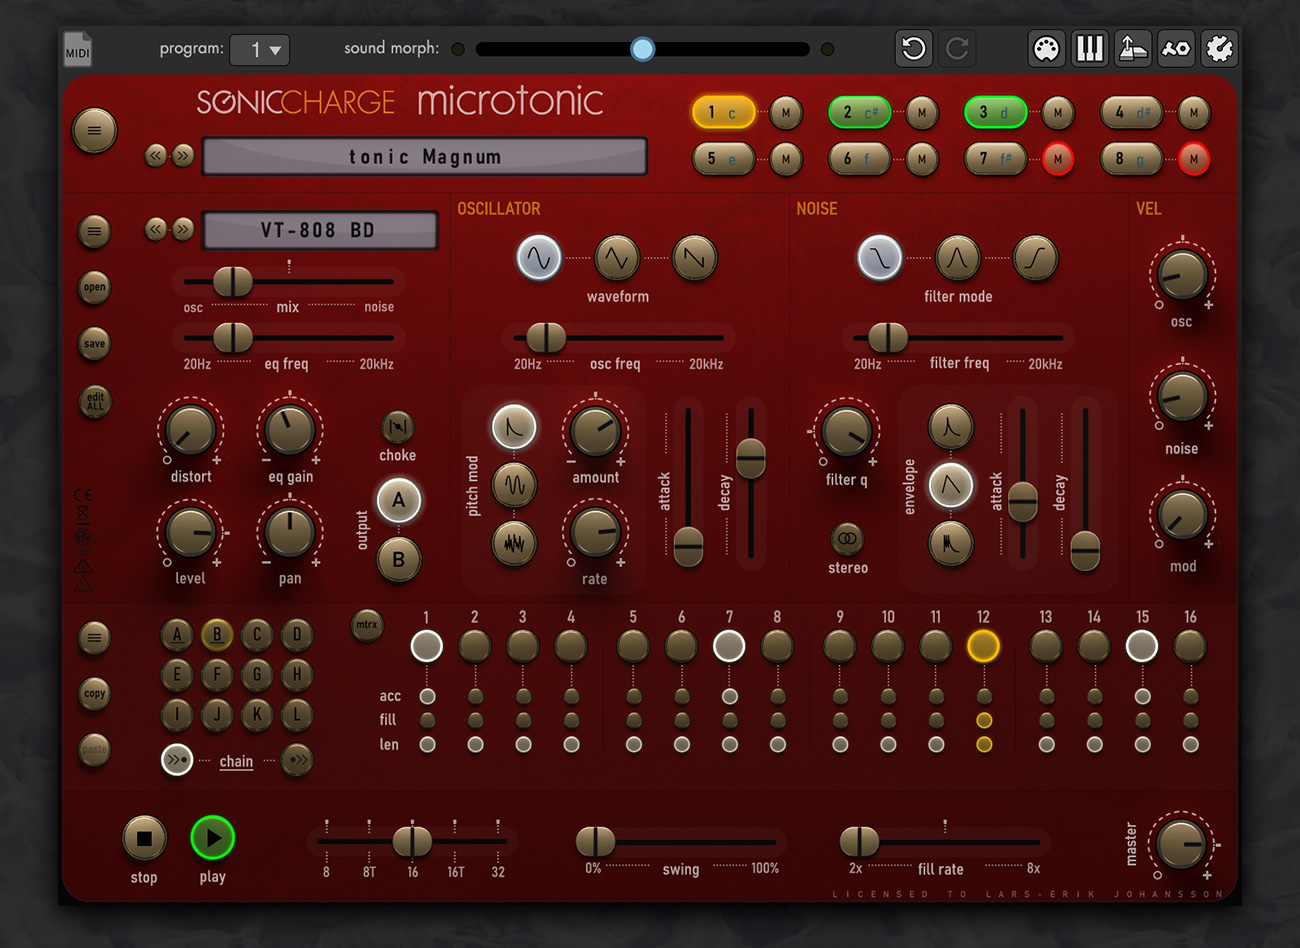
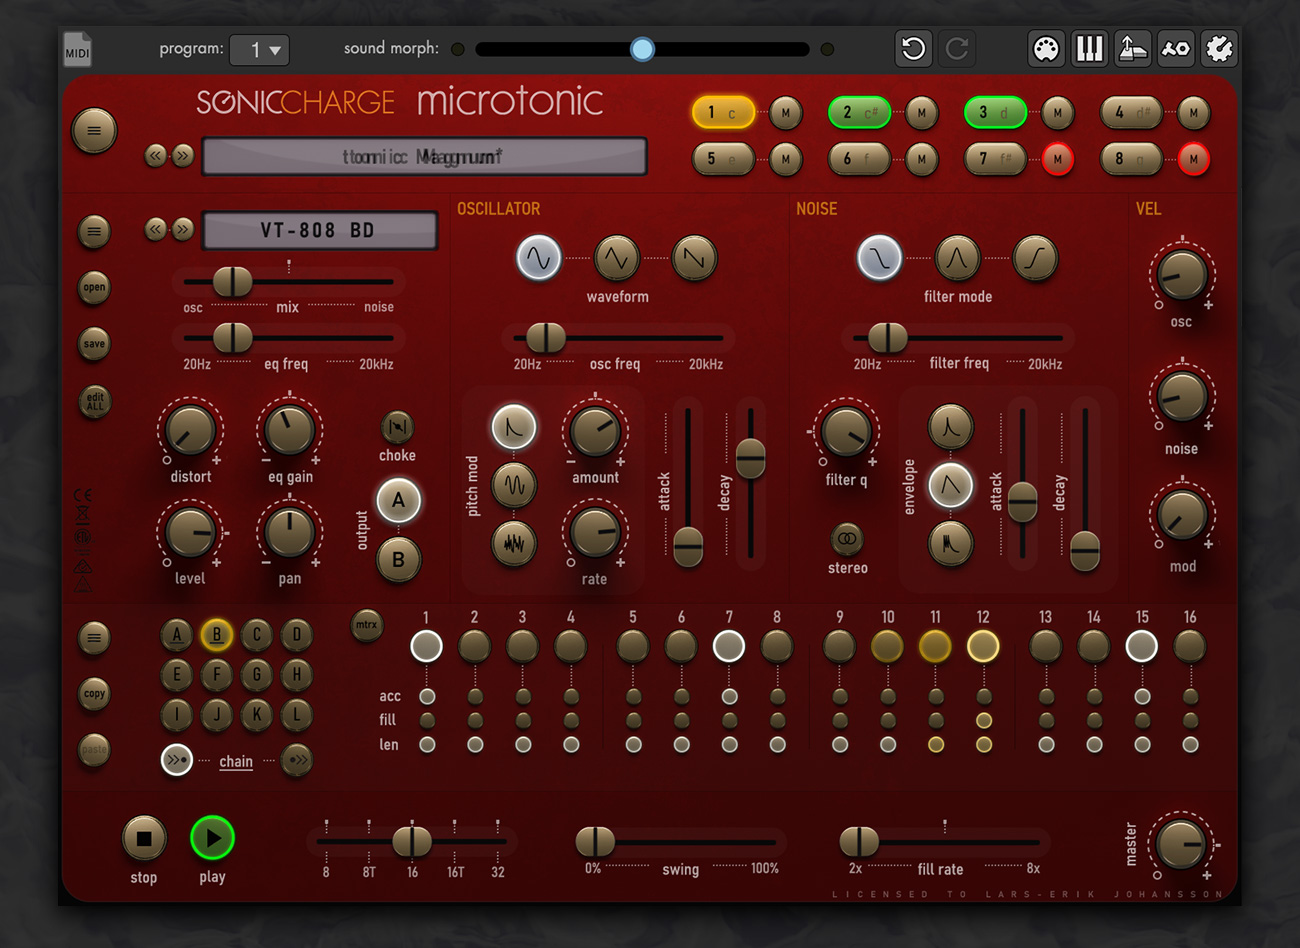
channel note bugfix

diff --git a/microtonic/README.md b/microtonic/README.md
@@ -42,6 +42,7 @@ Download: [larserik_tonicBlueSteel.zip](larserik_tonicBlueSteel.zip)
 
 ## Tonic Magnum
 Revision history:
+  - 2021-02-17: Channel note graphics bugfix. 
   - 2021-02-15: Knobs improved contrast, new displayfont, slider backdrops tweaked, new knob markings, new morphleds.
   - 2021-02-10: First version.
   
